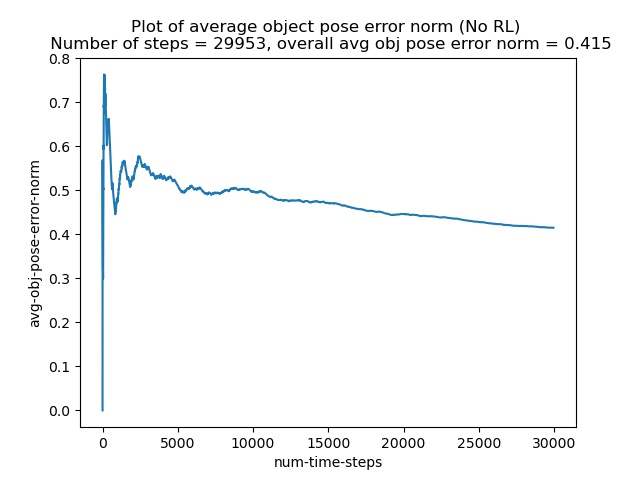
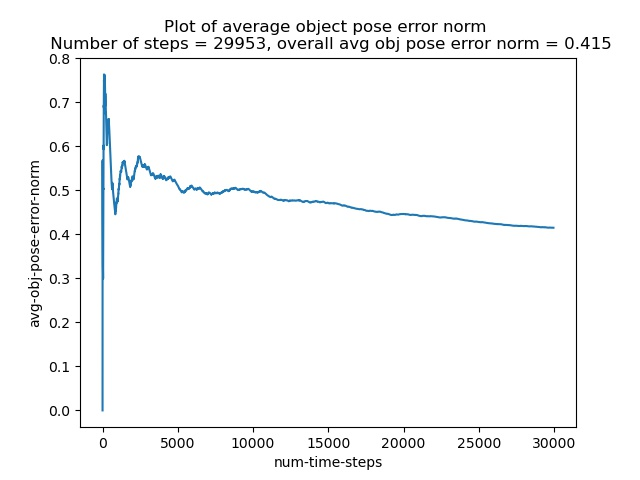
Added plot from prior branch (plot_19 with delta2).

Changed region(s): [[0.1875, 0.0312, 0.8125, 0.0938]]

diff --git a/examples/pybullet/gym/pybullet_envs/swe_gym/swe_plot_data.py b/examples/pybullet/gym/pybullet_envs/swe_gym/swe_plot_data.py
@@ -51,10 +51,10 @@ plt.xlabel('num-time-steps')
 plt.ylabel('avg-obj-pose-error-norm')
   
 # giving a title to my graph
-plt.title('Plot of average object pose error norm (No RL) \n Number of steps = {}, overall avg obj pose error norm = {:.3f}'.format(obj_pose_error_data[0][-1], obj_pose_error_data[1][-1]))
+plt.title('Plot of average object pose error norm \n Number of steps = {}, overall avg obj pose error norm = {:.3f}'.format(obj_pose_error_data[0][-1], obj_pose_error_data[1][-1]))
 
 # Saving the figure.
 plot_num = 19
-plt.savefig("data/ppo2_rewards_plot_{}_No_RL.jpg".format(plot_num))
+plt.savefig("data/ppo2_rewards_plot_{}.jpg".format(plot_num))
 
 plt.show()
